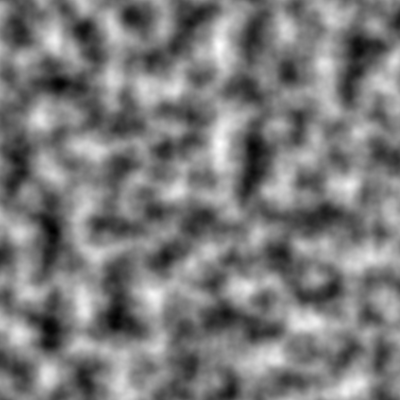
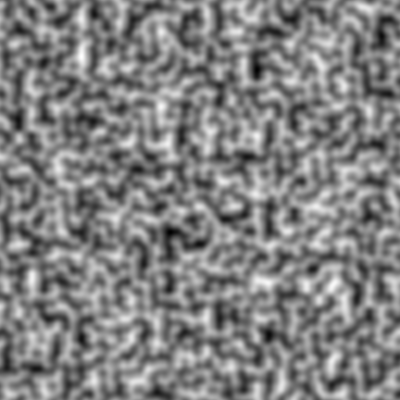
Aggiunto un modo per modificare al volo la heightMap

diff --git a/Progetto Informatica grafica/main.cpp b/Progetto Informatica grafica/main.cpp
@@ -30,9 +30,9 @@ struct global_struct {
   int WINDOW_HEIGHT = 1080; // Altezza della finestra
   bool SHOW_NORMALS = false; // Flag per attivare/disattivare il rendering delle normali
   glm::vec2 noiseSize = glm::vec2(400,400);
-  float noiseScale = 34.0f;
+  float noiseScale = 200.0f;
   int noiseOctaves = 5;
-  float noisePersistance = 0.3f;
+  float noisePersistance = 2.0f;
   float noiseLacunarity = 2.0f;
 
   Camera camera;
@@ -46,6 +46,7 @@ struct global_struct {
   MyShaderClass myshaders;
 
   const float SPEED = 1;
+
   float gradX;
   float gradY; 
 
@@ -55,7 +56,7 @@ struct global_struct {
 } global;
 
 
-Terrain terrain(global.noise.getPerlinNoise(), global.noise.getSize(), "roccia.jpg");
+Terrain terrain(global.noise.getPerlinNoise(), global.noise.getSize(), "obama.png");
 
 /**
 Prototipi della nostre funzioni di callback. 
@@ -119,7 +120,7 @@ void create_scene() {
   global.noise.saveToFile("mario.png");
 
   global.camera.set_camera(
-          glm::vec3(0, 20, 0),
+          glm::vec3(0, 0, 0),
           glm::vec3(0, 0, -1),
           glm::vec3(0, 1, 0)
       );
@@ -165,7 +166,6 @@ void Render_terrain(){
   terrain.render();
 
   if (global.SHOW_NORMALS) {
-
         Render_normals(terrain.getVertices());
     }
 }
@@ -197,6 +197,14 @@ void MyKeyboard(unsigned char key, int x, int y) {
     case 'n':
         global.SHOW_NORMALS = !global.SHOW_NORMALS;
         break;
+
+    case ']': 
+        global.camera.set_speed(global.camera.speed()*1.1);
+        break;
+
+    case '[': 
+        global.camera.set_speed(global.camera.speed()/1.1);
+    
 
     // comandi di movimento
     case 'w':
@@ -244,6 +252,46 @@ void MyKeyboard(unsigned char key, int x, int y) {
     // Variamo l'esponente della luce speculare
     case '8':
       global.specular_light.inc_shine(1);
+    break;
+
+    case 'u':
+      global.noise.setScale(global.noise.getScale() + 0.1);
+      terrain.setHeightMap(global.noise.getPerlinNoise());
+    break;
+
+    case 'j':
+      global.noise.setScale(global.noise.getScale() - 0.1);
+      terrain.setHeightMap(global.noise.getPerlinNoise());
+    break;
+
+    case 'i':
+      global.noise.setOctaves(global.noise.getOctaves() + 1);
+      terrain.setHeightMap(global.noise.getPerlinNoise());
+    break;
+
+    case 'k':
+      global.noise.setOctaves(global.noise.getOctaves() - 1);
+      terrain.setHeightMap(global.noise.getPerlinNoise());
+    break;
+
+    case 'o':
+      global.noise.setPersistance(global.noise.getPersistance() + 0.01);
+      terrain.setHeightMap(global.noise.getPerlinNoise());
+    break;
+
+    case 'l':
+      global.noise.setPersistance(global.noise.getPersistance() - 0.01);
+      terrain.setHeightMap(global.noise.getPerlinNoise());
+    break;
+
+    case 'p':
+      global.noise.setLacunarity(global.noise.getLacunarity() + 0.01);
+      terrain.setHeightMap(global.noise.getPerlinNoise());
+    break;
+
+    case ';':
+      global.noise.setLacunarity(global.noise.getLacunarity() - 0.01);
+      terrain.setHeightMap(global.noise.getPerlinNoise());
     break;
 
     case ' ': // Reimpostiamo la camera

diff --git a/Progetto Informatica grafica/noise.cpp b/Progetto Informatica grafica/noise.cpp
@@ -28,6 +28,7 @@ Una funzione che genera del perlin noise, sommando i vari segnali ottenuti e uti
 come persistance, lacunarity, scale e octaves per ottenere una singola immagine con valori compresi tra 0 e 255
 */
 void Noise::generate() {
+    _perlinNoise.clear();
     _perlinNoise.resize(_size.x * _size.y, 0);
     
     float minNoise = std::numeric_limits<float>::max();
@@ -90,6 +91,47 @@ glm::vec2 Noise::getSize() const {
 
 float Noise::getScale() const {
     return _scale;
+}
+
+float Noise::getOctaves() const {
+    return _octave;
+}
+
+float Noise::getPersistance() const {
+        return _persistance;
+}
+
+float Noise::getLacunarity() const {
+    return _lacunarity;
+}
+
+void Noise::setScale(float scale){
+    if(scale > 0){
+        _scale = scale;
+        generate();
+    }
+}
+
+void Noise::setOctaves(float octaves){
+    if(octaves > 0){
+        _octave = octaves;
+        generate();
+    }
+
+}
+
+void Noise::setPersistance(float persistance){
+    if(persistance > 0){
+        _persistance = persistance;
+        generate();
+    }
+}
+
+void Noise::setLacunarity(float lacunarity){
+    if(lacunarity > 0){
+        _lacunarity = lacunarity;
+        generate();
+    }
 }
 
 std::vector<uint8_t> Noise::getPerlinNoise(){

diff --git a/Progetto Informatica grafica/terrain.cpp b/Progetto Informatica grafica/terrain.cpp
@@ -46,7 +46,7 @@ void Terrain::generatePlaneMesh() {
         }
     }
 
-        // Then calculate normals using height differences
+    // Then calculate normals using height differences
     for(unsigned int i = 0; i < _size.x; i++) {
         for(unsigned int j = 0; j < _size.y; j++) {
             // Get height at neighboring points
@@ -63,13 +63,14 @@ void Terrain::generatePlaneMesh() {
             _vertices[i*_size.y + j].normal = normal;
         }
     }
-
-    // Normalizza tutte le normali accumulate
-    for(auto& vertex : _vertices) {
-        vertex.normal = glm::normalize(vertex.normal);
-    }
     
 
+}
+
+void Terrain::setHeightMap(std::vector<uint8_t> heightMap){ 
+    _heightMap = heightMap;
+    _initialized = false;
+    render();
 }
 
 

diff --git a/Progetto Informatica grafica/noise.h b/Progetto Informatica grafica/noise.h
@@ -19,7 +19,16 @@ private:
 public: 
     Noise(glm::vec2 size, float scale, int octave, float persistance, float lacunarity);
     glm::vec2 getSize() const;
+
+    void setScale(float scale);
+    void setOctaves(float octaves);
+    void setPersistance(float persistance);
+    void setLacunarity(float lacunarity);
     float getScale() const;
+    float getOctaves() const;
+    float getPersistance() const;
+    float getLacunarity() const;
+    
     std::vector<uint8_t> getPerlinNoise();
     bool saveToFile(const std::string& filename);
 };

diff --git a/Progetto Informatica grafica/terrain.h b/Progetto Informatica grafica/terrain.h
@@ -8,6 +8,8 @@ public:
 
   Terrain(std::vector<uint8_t> heightMap, glm::vec2 size, std::string textureFileName);
 
+  void setHeightMap(std::vector<uint8_t> heightMap);
+
   void render(void);
   const std::vector<Vertex>& getVertices() const { return _vertices; }
   void init(void);
